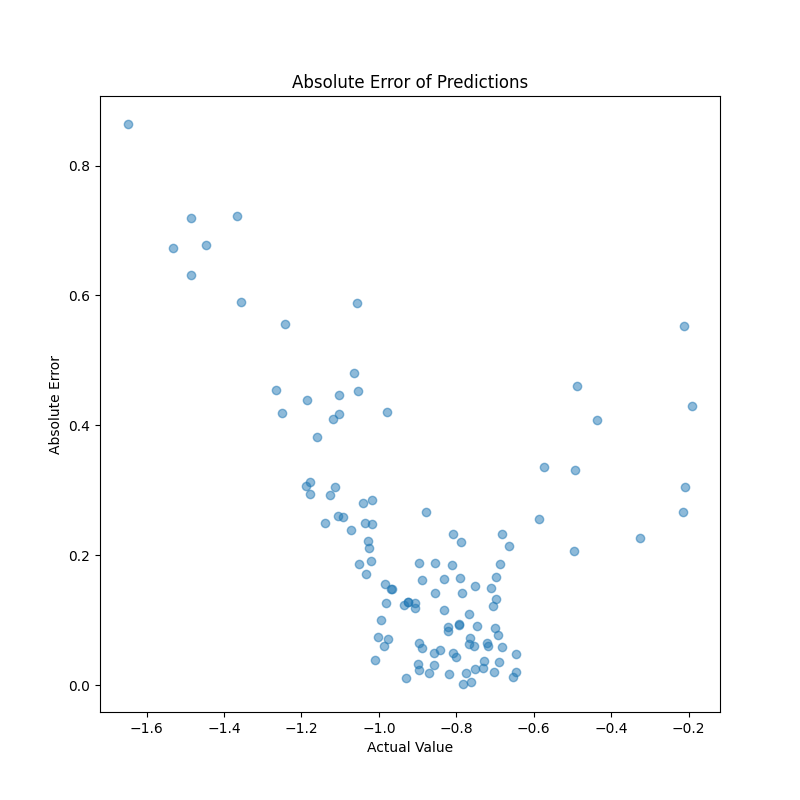
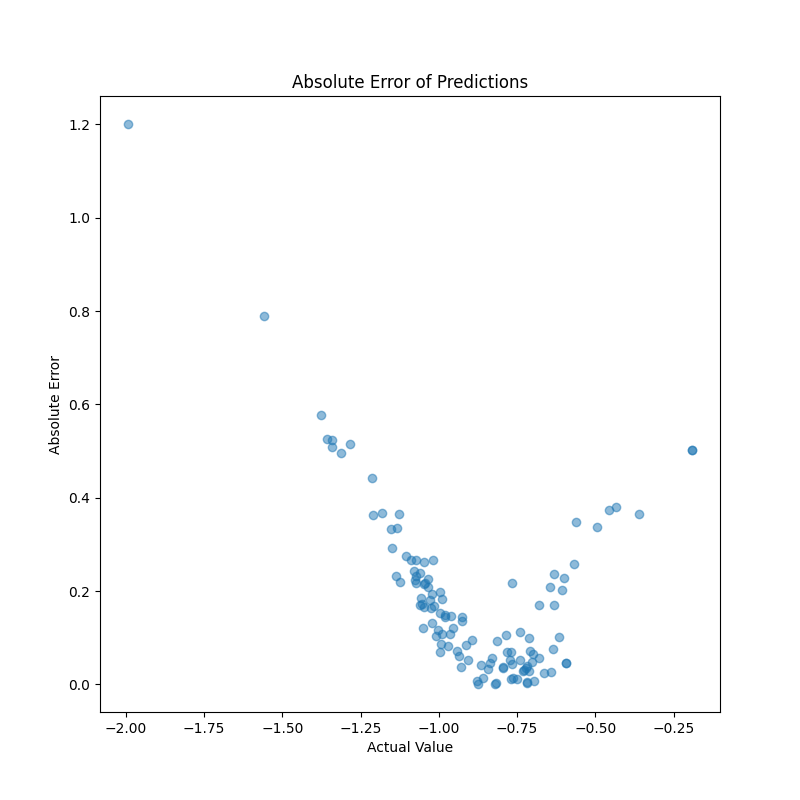
new commit

diff --git a/distance_array.py b/distance_array.py
@@ -1,0 +1,55 @@
+from model import *
+import torch
+import pickle
+import numpy as np
+
+#each element should be a 1D vector of size 1 x 24
+def get_element_lutetium_distances_array(element_array_padded, lutetium_array_padded):
+    element_lutetium_distances_array = []
+    for i in range(len(element_array_padded)):
+        temp_distances = []
+        for j in range(len(lutetium_array_padded)):
+            if not np.array_equal(element_array_padded[i], np.zeros(3)) and not np.array_equal(lutetium_array_padded[j], np.zeros(3)):
+                element_lutetium_distance = np.linalg.norm(element_array_padded[i] - lutetium_array_padded[j])
+                temp_distances.append(element_lutetium_distance)
+            elif np.array_equal(element_array_padded[i], np.zeros(3)) or np.array_equal(lutetium_array_padded[j], np.zeros(3)):
+                element_lutetium_distance = np.inf
+                temp_distances.append(element_lutetium_distance)
+        element_lutetium_distances = np.array(temp_distances)
+        minimum_distance = np.min(element_lutetium_distances)
+        element_lutetium_distances_array.append(minimum_distance)
+    return np.array(element_lutetium_distances_array)
+
+#each element should be a 2D array of size 24 x 24
+def get_hydrogen_nitrogen_distances_array(hydrogen_array_padded, nitrogen_array_padded):
+    hydrogen_nitrogen_distances_array = []
+    for i in range(len(hydrogen_array_padded)):
+        temp_distances = []
+        for j in range(len(nitrogen_array_padded)):
+            if not np.array_equal(hydrogen_array_padded[i], np.zeros(3)) and not np.array_equal(nitrogen_array_padded[j], np.zeros(3)):
+                hydrogen_nitrogen_distance = np.linalg.norm(hydrogen_array_padded[i] - nitrogen_array_padded[j])
+                temp_distances.append(hydrogen_nitrogen_distance)
+            elif np.array_equal(hydrogen_array_padded[i], np.zeros(3)) or np.array_equal(nitrogen_array_padded[j], np.zeros(3)):
+                hydrogen_nitrogen_distance = np.inf
+                temp_distances.append(hydrogen_nitrogen_distance)
+        hydrogen_nitrogen_distances = np.array(temp_distances)
+        hydrogen_nitrogen_distances_array.append(hydrogen_nitrogen_distances)
+    return np.array(hydrogen_nitrogen_distances_array)
+
+def create_distance_array():
+    from helpers import get_padded_matrices
+    hydrogen_array_padded, nitrogen_array_padded, lutetium_array_padded, energy_array = get_padded_matrices()
+    hydrogen_lutetium_distances_array = get_element_lutetium_distances_array(hydrogen_array_padded, lutetium_array_padded)
+    nitrogen_lutium_distances_array = get_element_lutetium_distances_array(nitrogen_array_padded, lutetium_array_padded)
+    hydrogen_nitrogen_distances_array = get_hydrogen_nitrogen_distances_array(hydrogen_array_padded, nitrogen_array_padded)
+    flattened_array = []
+    for i in range(len(hydrogen_array_padded)):
+        h_lu_distance = np.array([hydrogen_lutetium_distances_array[i]])
+        n_lu_distance = np.array([nitrogen_lutium_distances_array[i]])
+        h_n_distance = np.array([hydrogen_nitrogen_distances_array[i]])
+        flattened_array.append(np.concatenate((h_lu_distance.flatten(), n_lu_distance.flatten(), h_n_distance.flatten()), axis=0))
+    flattened_array = np.array(flattened_array)
+    return torch.tensor(flattened_array, dtype=torch.float32), torch.tensor(energy_array, dtype=torch.float32)
+
+    
+    

diff --git a/helpers.py b/helpers.py
@@ -138,8 +138,9 @@ def get_flattened_tensors():
     return combined_tensor, energy_tensor
     
 def train_test_normal_neural_network(model_number):
-    combined_tensor, energy_tensor = get_flattened_tensors()
-    
+    #combined_tensor, energy_tensor = get_flattened_tensors()
+    from distance_array import create_distance_array
+    combined_tensor, energy_tensor = create_distance_array()
     # Create a dataset
     dataset = MoleculeDataset(combined_tensor, energy_tensor)
     
@@ -175,7 +176,7 @@ def train_test_normal_neural_network(model_number):
 
     #criterion = torch.nn.MSELoss()
     criterion = nn.SmoothL1Loss()
-    results = training_loop(model_neural_network, training_loader, validation_loader, optimizer, criterion, epochs=5)
+    results = training_loop(model_neural_network, training_loader, validation_loader, optimizer, criterion, epochs=10)
     training_loss = results['training_loss']
     validation_loss = results['validation_loss']
     best_val_loss = results['best_val_loss']
@@ -315,7 +316,7 @@ def testing(model, testing_loader, criterion, model_number):
     plt.xlabel('Actual Energy')
     plt.ylabel('Predicted Energy')
     plt.title('Predicted vs Actual Energy Values')
-    plt.savefig(f'saved_plots/prediction_vs_actual{model_number}.png')
+    plt.savefig(f'saved_plots/prediction_vs_actual_distances{model_number}.png')
     plt.close()
     
     plt.figure(figsize=(8, 8))
@@ -324,7 +325,7 @@ def testing(model, testing_loader, criterion, model_number):
     plt.xlabel('Actual Value')
     plt.ylabel('Absolute Error')
     plt.title('Absolute Error of Predictions')
-    plt.savefig(f'saved_plots/absolute_error_actual{model_number}.png')
+    plt.savefig(f'saved_plots/absolute_error_actual_distances{model_number}.png')
     plt.close()
     
     return {
